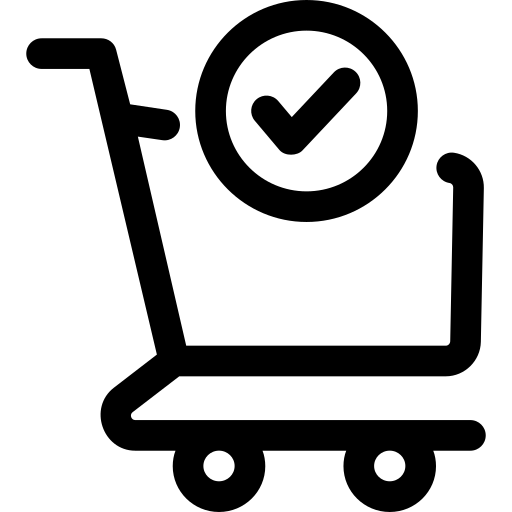
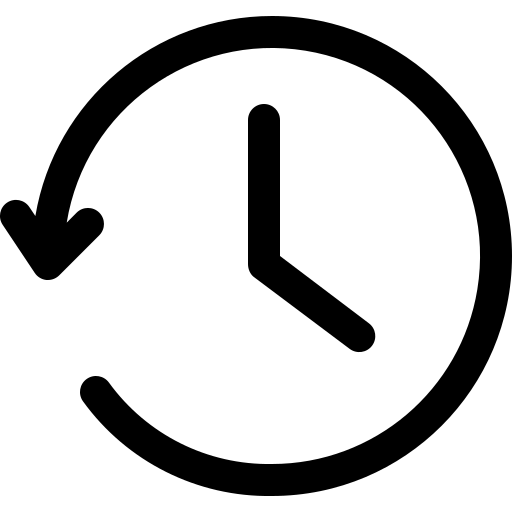
feat(frontend): improve navbar and profile navigation

diff --git a/frontend/src/components/Navbar/UserMenu.tsx b/frontend/src/components/Navbar/UserMenu.tsx
@@ -6,6 +6,7 @@ import email from "./../../assets/Navbar/email.png";
 import logout from "./../../assets/Navbar/logout.png";
 import OrdersMe from "./../../assets/Navbar/OrdersMe.png";
 import setting from "./../../assets/Navbar/setting.png";
+import cart from "./../../assets/Navbar/shopping-cart.png";
 import { AuthContext } from "../../context/AuthContext";
 const UserMenu = () => {
   const [isOpen, setIsOpen] = useState(false);
@@ -18,16 +19,30 @@ const UserMenu = () => {
   };
   return (
     <div className="relative text-sm">
-      <button
-        onClick={() => setIsOpen(!isOpen)}
-        className="w-7 rounded-full overflow-hidden hidden md:flex hover:bg-[#ddd]"
-      >
-        <img
-          className={"w-full h-full object-cover"}
-          src={avatar}
-          alt="Profil"
-        />
-      </button>
+      <div className="flex gap-1">
+        <a
+          href="/cart/me"
+          className="flex items-center border p-2 pe-4 rounded-2xl overflow-hidden hidden gap-2 md:flex hover:bg-[#ddd]"
+        >
+          <img
+            className={"w-7 h-full object-cover"}
+            src={cart}
+            alt="Profil"
+          />
+          <span className="font-bold .libre-baskerville">Sepetim</span>
+        </a>
+        <button
+          onClick={() => setIsOpen(!isOpen)}
+          className="flex items-center border p-2 pe-4 rounded-2xl overflow-hidden hidden gap-2 md:flex hover:bg-[#ddd]"
+        >
+          <img
+            className={"w-7 h-full object-cover"}
+            src={avatar}
+            alt="Profil"
+          />
+          <span className="font-bold .libre-baskerville">Hesap</span>
+        </button>
+      </div>
 
       <div
         className={`absolute right-0 mt-2 w-48 rounded-lg bg-white shadow-lg
@@ -43,13 +58,14 @@ const UserMenu = () => {
             href="/profile"
             className="block px-3 py-2 rounded-md hover:bg-[#ccc] flex gap-2 items-center"
           >
-           <img className="w-6" src={avatar} alt="" /> <span>Hesabım</span>
+            <img className="w-6" src={avatar} alt="" /> <span>Hesabım</span>
           </a>
           <a
             href="/orders/me"
             className="block px-3 py-2 rounded-md hover:bg-[#ccc] flex gap-2 items-center"
           >
-             <img className="w-6" src={OrdersMe} alt="" /> <span>Tüm Siparişlerim</span>
+            <img className="w-6" src={OrdersMe} alt="" />{" "}
+            <span>Tüm Siparişlerim</span>
           </a>
           <a
             href="/settings"
@@ -69,7 +85,8 @@ const UserMenu = () => {
             onClick={logOut}
             className="w-full text-left px-3 py-2 rounded-md hover:bg-[#ccc] flex gap-2 items-center"
           >
-            <img className="w-6" src={logout} alt="" /><span>Çıkış Yap</span>
+            <img className="w-6" src={logout} alt="" />
+            <span>Çıkış Yap</span>
           </button>
         </div>
       </div>

diff --git a/frontend/src/components/Navbar/Navbar.tsx b/frontend/src/components/Navbar/Navbar.tsx
@@ -2,7 +2,7 @@ import React, { useState, useContext } from "react";
 import navbarMenu from "./../../assets/Navbar/NavbarMenuIcon.jpg";
 import avatar from "./../../assets/Navbar/Avatar.png";
 import email from "./../../assets/Navbar/email.png";
-import logout from "./../../assets/Navbar/logout.png";
+import cart from "./../../assets/Navbar/shopping-cart.png"
 import OrdersMe from "./../../assets/Navbar/OrdersMe.png";
 import setting from "./../../assets/Navbar/setting.png";
 import logo from "./../../assets/Logo.png";
@@ -209,6 +209,12 @@ const Navbar = () => {
                   className="hover:opacity-70 transition duration-200 flex gap-2 items-center"
                   href="/orders/me"
                 >
+                  <img className="w-4" src={cart} alt="" /><span>Sepet</span>
+                </a>
+                <a
+                  className="hover:opacity-70 transition duration-200 flex gap-2 items-center"
+                  href="/orders/me"
+                >
                   <img className="w-4" src={OrdersMe} alt="" /><span>Tüm siparişlerim</span>
                 </a>
                 <a
@@ -222,7 +228,7 @@ const Navbar = () => {
                   className="hover:opacity-70 transition duration-200 flex gap-2 items-center"
                   href="/messages/me"
                 >
-                  <img className="w-4" src={setting} alt="" /><span>Mesajlarım</span>
+                  <img className="w-4" src={email} alt="" /><span>Mesajlarım</span>
                 </a>
                 
               </div>

diff --git a/frontend/src/pages/Profile.tsx b/frontend/src/pages/Profile.tsx
@@ -5,7 +5,17 @@ const Profile = () => {
   return (
     <div>
         <Navbar></Navbar>
-      Profil
+        <div  className="container mx-auto px-2 md:px-6 lg:px-8 flex flex-col justify-around text-white md:flex-row">
+          <div className='hidden md:flex md:w-1/5 bg-blue-900'>
+          <div className='flex flex-col'>
+            <a href="/orders/me">Tüm Siparişlerim</a>
+            <a href="/reviews/me">Değerlendirmelerim</a>
+          </div>
+          </div>
+          <div className='md:w-4/5 bg-black'>
+          TEST2
+          </div>
+        </div>
     </div>
   )
 }
